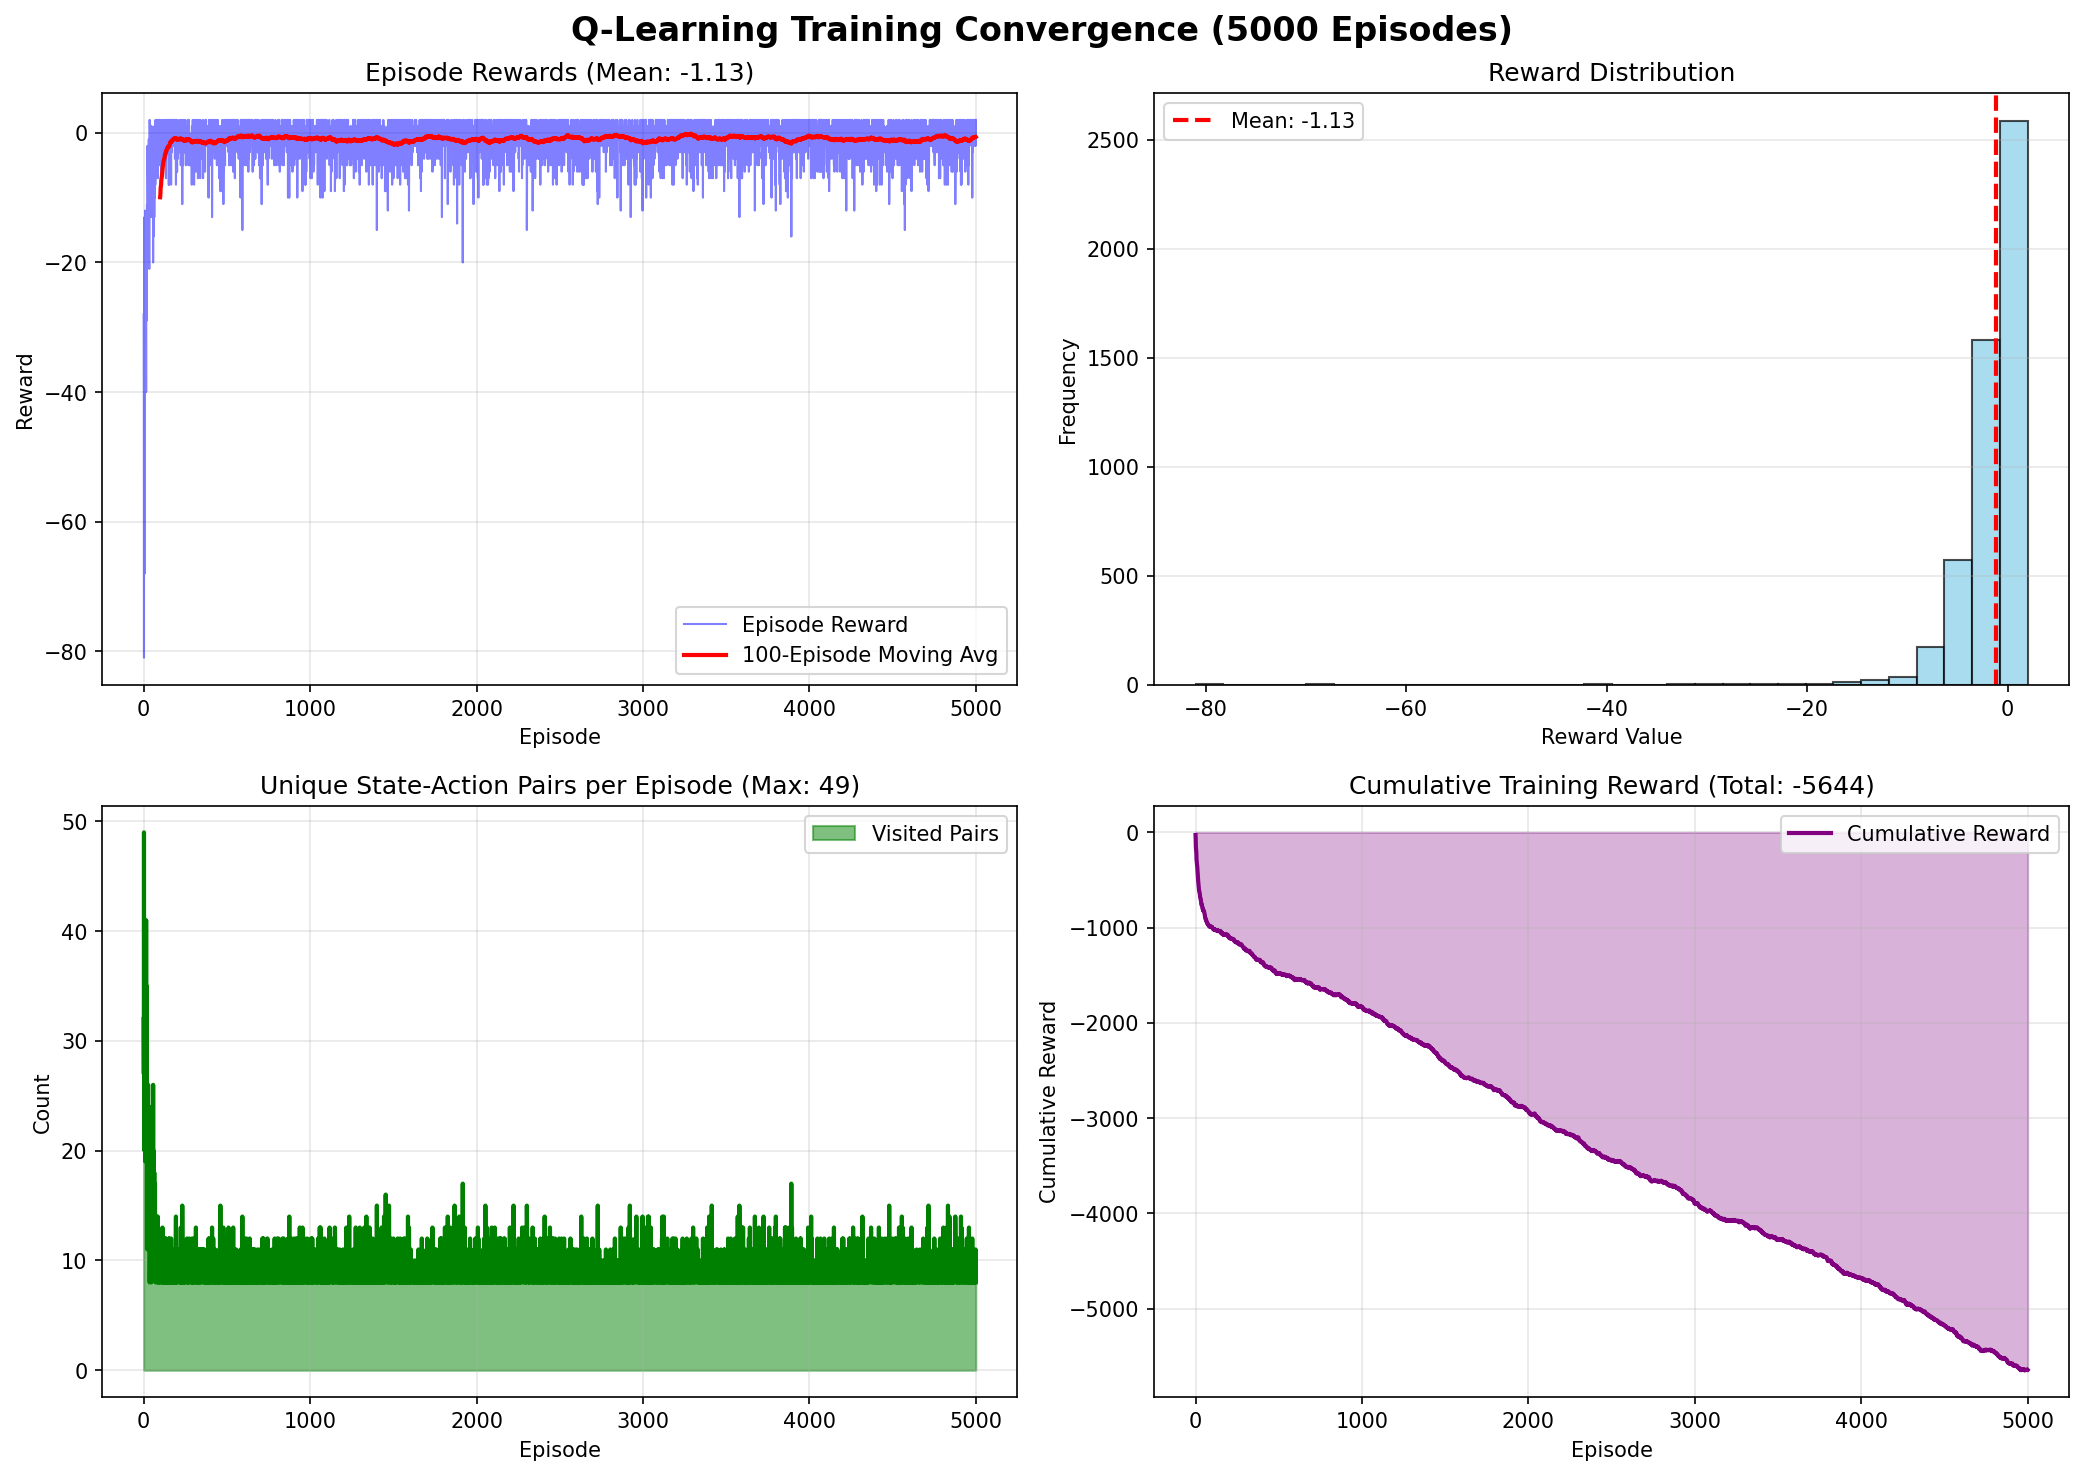
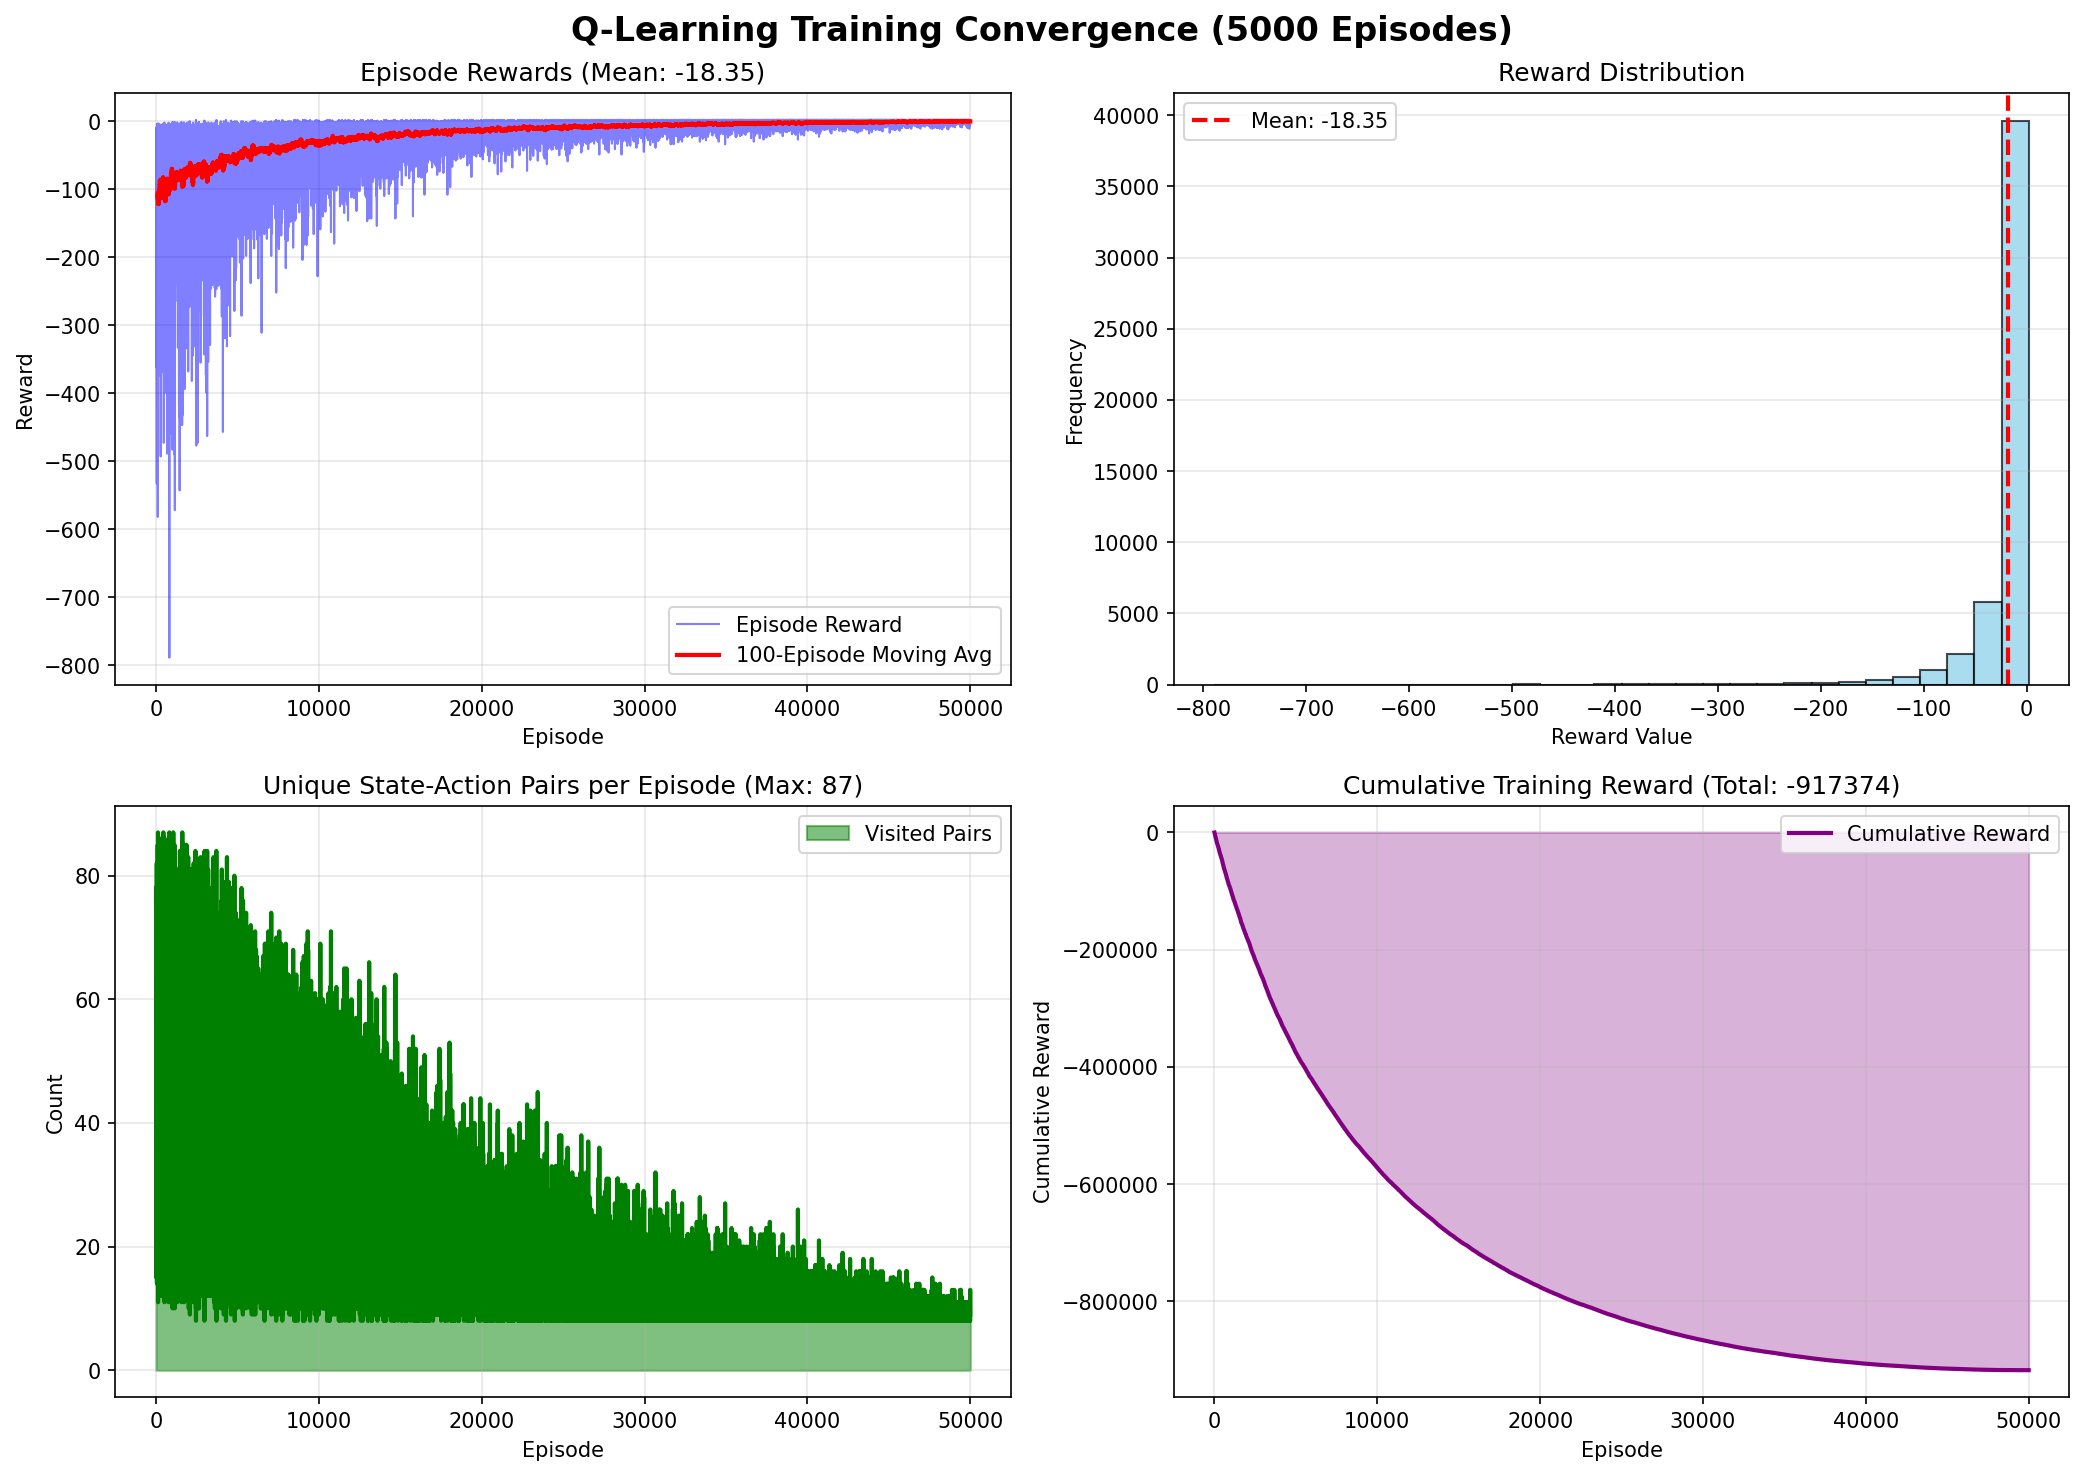
manual MDP check

diff --git a/Lab1/part2/task3/main.py b/Lab1/part2/task3/main.py
@@ -32,8 +32,8 @@ from visualization_task3 import (
 )
 
 # Parameters
-NUM_EPISODES = 5000
-EPSILON = 0.1
+NUM_EPISODES = 50000
+EPSILON = 1.0       # Start with full exploration; decays to EPSILON_MIN
 ALPHA = agent.ALPHA
 GAMMA = agent.GAMMA
 STEP_COST = agent.STEP_COST
@@ -92,21 +92,27 @@ def select_action_epsilon_greedy(x, y, Q, epsilon=EPSILON):
         return random.choice(best_actions)
 
 
+EPSILON_MIN = 0.01   # Floor value for epsilon after decay
+EPSILON_DECAY = (EPSILON - EPSILON_MIN) / NUM_EPISODES  # Linear decay per episode
+
+
 def q_learning(num_episodes=NUM_EPISODES, epsilon=EPSILON, alpha=ALPHA):
     """
     Main Q-learning training loop.
     
     Updates Q-values online: Q(s,a) ← Q(s,a) + α[r + γ max Q(s',a') - Q(s,a)]
+    Epsilon decays linearly from EPSILON to EPSILON_MIN over training.
     
     Args:
         num_episodes: Number of training episodes
-        epsilon: Exploration rate
+        epsilon: Initial exploration rate (decays each episode)
         alpha: Learning rate
         
     Returns:
         tuple: (Q_values dict, training_history dict)
     """
     Q = initialize_q_values()
+    current_epsilon = epsilon
     
     # Training history tracking
     training_history = {
@@ -117,7 +123,7 @@ def q_learning(num_episodes=NUM_EPISODES, epsilon=EPSILON, alpha=ALPHA):
     print("\n" + "=" * 60)
     print("Q-LEARNING TRAINING")
     print("=" * 60)
-    print(f"Episodes: {num_episodes}, Learning rate (α): {alpha}, Epsilon (ε): {epsilon}")
+    print(f"Episodes: {num_episodes}, Learning rate (α): {alpha}, Epsilon (ε): {epsilon} → {EPSILON_MIN}")
     print()
     
     for episode_num in range(num_episodes):
@@ -129,7 +135,7 @@ def q_learning(num_episodes=NUM_EPISODES, epsilon=EPSILON, alpha=ALPHA):
         # Run one episode until goal or timeout
         for step in range(1000):  # Max 1000 steps per episode
             # Record visited state-action pair
-            action = select_action_epsilon_greedy(x, y, Q, epsilon)
+            action = select_action_epsilon_greedy(x, y, Q, current_epsilon)
             visited_pairs.add(((x, y), action))
             
             # Take action in environment (stochastic)
@@ -154,14 +160,17 @@ def q_learning(num_episodes=NUM_EPISODES, epsilon=EPSILON, alpha=ALPHA):
             if (x, y) == map0.end_point:
                 break
         
+        # Decay epsilon after each episode
+        current_epsilon = max(EPSILON_MIN, current_epsilon - EPSILON_DECAY)
+
         # Record episode history
         training_history['episode_rewards'].append(episode_reward)
         training_history['episode_visited_pairs'].append(len(visited_pairs))
         
-        # Progress update every 100 episodes
-        if (episode_num + 1) % 500 == 0:
+        # Progress update every 5000 episodes
+        if (episode_num + 1) % 5000 == 0:
             print(f"Episode {episode_num+1}/{num_episodes}: Reward={episode_reward:.2f}, "
-                  f"Visited pairs={len(visited_pairs)}")
+                  f"Visited pairs={len(visited_pairs)}, ε={current_epsilon:.3f}")
     
     print(f"✓ Training complete after {num_episodes} episodes\n")
     

diff --git a/Lab1/part2/task1/main.py b/Lab1/part2/task1/main.py
@@ -72,9 +72,16 @@ def policy_to_deterministic(policy):
         policy: dict {(x, y): np.array(4)} stochastic policy
         
     Returns:
-        dict: {(x, y): int} best action index for each state
+        dict: {(x, y): int} best action index for each state, -1 for goal
     """
-    return {(x, y): int(np.argmax(policy[(x, y)])) for x in range(5) for y in range(5)}
+    result = {}
+    for x in range(5):
+        for y in range(5):
+            if (x, y) == map0.end_point:
+                result[(x, y)] = -1  # No action at goal
+            else:
+                result[(x, y)] = int(np.argmax(policy[(x, y)]))
+    return result
 
 
 # ==================== VALUE ITERATION ====================
@@ -127,8 +134,8 @@ def value_iteration(max_iterations=1000, theta=1e-6):
                 for action in ACTIONS:
                     next_x, next_y = get_next_state(x, y, action)
                     # Deterministic transition: P(s'|s,a) = 1
-                    # Q(s,a) = R(s,a,s') + γV(s')
-                    q_value = reward_calc(x, y) + GAMMA * V_old[(next_x, next_y)]
+                    # Q(s,a) = R(s,a,s') + γV(s')  -- reward is for entering next state
+                    q_value = reward_calc(next_x, next_y) + GAMMA * V_old[(next_x, next_y)]
                     q_values.append(q_value)
                 
                 # V(s) = max_a Q(s,a)
@@ -157,7 +164,7 @@ def value_iteration(max_iterations=1000, theta=1e-6):
             q_values = []
             for action in ACTIONS:
                 next_x, next_y = get_next_state(x, y, action)
-                q_value = reward_calc(x, y) + GAMMA * V[(next_x, next_y)]
+                q_value = reward_calc(next_x, next_y) + GAMMA * V[(next_x, next_y)]
                 q_values.append(q_value)
             
             policy_deterministic[(x, y)] = int(np.argmax(q_values))
@@ -205,8 +212,8 @@ def policy_evaluation(policy, max_iterations=1000, theta=1e-6):
                     action_prob = policy[(x, y)][action_idx]
                     
                     next_x, next_y = get_next_state(x, y, action)
-                    # Q^π(s,a) = R + γV^π(s')
-                    q_value = reward_calc(x, y) + GAMMA * V_old[(next_x, next_y)]
+                    # Q^π(s,a) = R(s') + γV^π(s')  -- reward is for entering next state
+                    q_value = reward_calc(next_x, next_y) + GAMMA * V_old[(next_x, next_y)]
                     value += action_prob * q_value
                 
                 V[(x, y)] = value
@@ -247,7 +254,7 @@ def policy_improvement(V):
             q_values = []
             for action in ACTIONS:
                 next_x, next_y = get_next_state(x, y, action)
-                q_value = reward_calc(x, y) + GAMMA * V[(next_x, next_y)]
+                q_value = reward_calc(next_x, next_y) + GAMMA * V[(next_x, next_y)]
                 q_values.append(q_value)
             
             # Choose greedy action

diff --git a/Lab1/part2/task3/visualization/task3_policies.md b/Lab1/part2/task3/visualization/task3_policies.md
@@ -3,7 +3,7 @@
 | Y\X | 0 | 1 | 2 | 3 | 4 |
 |-----|---|---|---|---|---|
 | 4 | RIGHT | RIGHT | RIGHT | RIGHT | GOAL |
-| 3 | UP | UP | OBS | UP | UP |
-| 2 | UP | RIGHT | RIGHT | RIGHT | UP |
-| 1 | UP | UP | OBS | UP | UP |
-| 0 | UP | RIGHT | RIGHT | UP | UP |
+| 3 | RIGHT | UP | OBS | UP | UP |
+| 2 | RIGHT | RIGHT | RIGHT | UP | UP |
+| 1 | RIGHT | UP | OBS | UP | UP |
+| 0 | RIGHT | RIGHT | RIGHT | UP | UP |

diff --git a/Lab1/part2/task1/visualization/task1_policies.md b/Lab1/part2/task1/visualization/task1_policies.md
@@ -19,7 +19,7 @@
 
 | Y\X | 0 | 1 | 2 | 3 | 4 |
 |-----|---|---|---|---|----|
-| 4 | RIGHT | RIGHT | RIGHT | RIGHT | UP |
+| 4 | RIGHT | RIGHT | RIGHT | RIGHT | GOAL |
 | 3 | UP | UP | OBS | UP | UP |
 | 2 | UP | UP | RIGHT | UP | UP |
 | 1 | UP | UP | OBS | UP | UP |
